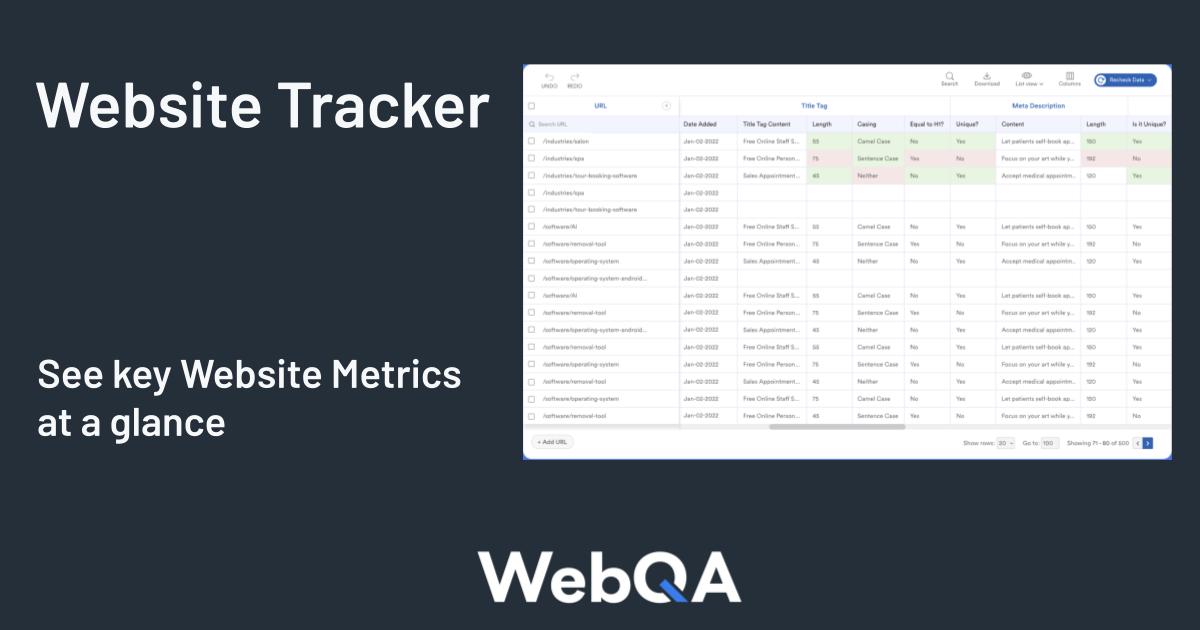
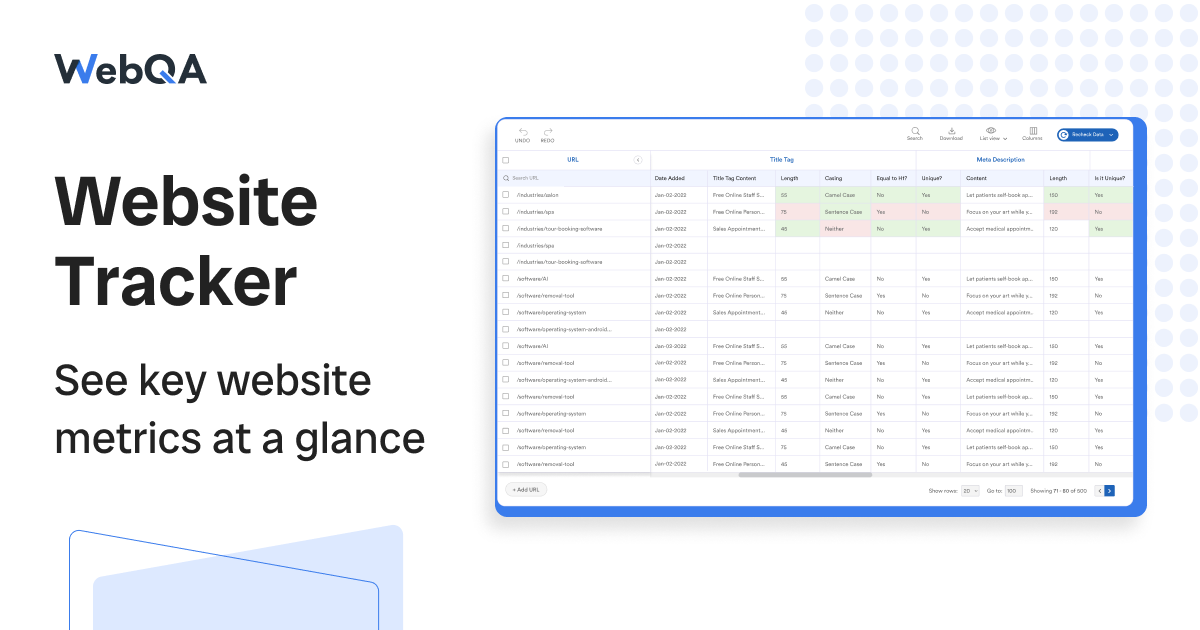
Modified OG images for few pages

diff --git a/resources/views/bulk-tools/posts/meta-desc.blade.php b/resources/views/bulk-tools/posts/meta-desc.blade.php
@@ -4,8 +4,9 @@
 @section('og-title', 'Test Meta Descriptions with Custom Rules | Webqa')
 @section('og-description', 'Audit meta descriptions against your standards—set length limits and rules, see decisive Pass/Fail outcomes, and export results to share and act quickly.')
 @section('og-url', 'https://webqa.co/tool/meta-description')
-@section('og-image', 'https://webqa.co/new-assets/assets/images/meta-tags/open-graph-image.png')
+@section('og-image', 'https://webqa.co/new-assets/assets/images/og/tools-meta-description.png')
 @section('og-image-alt', 'Meta description test')
+
 
 <div class="single-post-content-main bulk-tool-test">
   <div class="single-post-content">

diff --git a/resources/views/bulk-tools/posts/meta-title.blade.php b/resources/views/bulk-tools/posts/meta-title.blade.php
@@ -4,9 +4,8 @@
 @section('og-title', 'Test Meta Titles with Custom Rules | Webqa')
 @section('og-description', 'Audit meta titles with your standards—length, casing, and H1 difference. See decisive Pass/Fail outcomes and export results for quick fixes.')
 @section('og-url', 'https://webqa.co/tool/meta-title')
-@section('og-image', 'https://webqa.co/new-assets/assets/images/meta-tags/open-graph-image.png')
+@section('og-image', 'https://webqa.co/new-assets/assets/images/og/tools-meta-title.png')
 @section('og-image-alt', 'Meta title test')
-
 
 <div class="single-post-content-main bulk-tool-test">
   <div class="single-post-content">

diff --git a/resources/views/bulk-tools/posts/robots-meta.blade.php b/resources/views/bulk-tools/posts/robots-meta.blade.php
@@ -4,7 +4,7 @@
 @section('og-title', 'Test Robots Meta Tags & Directives | Webqa')
 @section('og-description', 'Audit robots meta directives—index/follow, noindex, nofollow, noarchive, nosnippet, and more. See decisive outcomes and export results for quick fixes.')
 @section('og-url', 'https://webqa.co/tool/robots-meta')
-@section('og-image', 'https://webqa.co/new-assets/assets/images/meta-tags/open-graph-image.png')
+@section('og-image', 'https://webqa.co/new-assets/assets/images/og/tools-robots-meta.png')
 @section('og-image-alt', 'Robots meta test')
 
 <div class="single-post-content-main bulk-tool-test">

diff --git a/resources/views/feature-childpage-audtest.blade.php b/resources/views/feature-childpage-audtest.blade.php
@@ -6,7 +6,7 @@
 @section('og-title', 'Custom Webpage Audits with Shareable Results | Webqa')
 @section('og-description', 'Define acceptance criteria, test any page, and see decisive Pass/Fail outcomes. Each analysis includes a shareable URL and exports to PDF/CSV/XLSX.')
 @section('og-url', 'https://webqa.co/features/webpage-audit')
-@section('og-image', 'https://webqa.co/new-assets/assets/images/meta-tags/open-graph-image.png')
+@section('og-image', 'https://webqa.co/new-assets/assets/images/og/features-webpage-audit.png')
 @section('og-image-alt', 'Webpage audit')
 
 @section("content")

diff --git a/resources/views/feature-childpage-settings.blade.php b/resources/views/feature-childpage-settings.blade.php
@@ -6,7 +6,7 @@
 @section('og-title', 'Settings: Define Project-Wide Audit Rules | Webqa')
 @section('og-description', 'Configure the criteria that power your checks. Choose only the parameters you need and ensure consistent, standards-based results across audits and bulk tools.')
 @section('og-url', 'https://webqa.co/features/settings')
-@section('og-image', 'https://webqa.co/new-assets/assets/images/meta-tags/open-graph-image.png')
+@section('og-image', 'https://webqa.co/new-assets/assets/images/og/features-settings.png')
 @section('og-image-alt', 'Settings')
 
 @section("content")

diff --git a/resources/views/feature-childpage-reports.blade.php b/resources/views/feature-childpage-reports.blade.php
@@ -6,7 +6,7 @@
 @section('og-title', 'Share Actionable Audit Findings with Website Reports | Webqa')
 @section('og-description', 'Website Reports turns audit data into clear tables—titles, speed, canonicals, and more. Jump in from widgets and export PDF/CSV/XLSX for streamlined hand-offs.')
 @section('og-url', 'https://webqa.co/features/reports')
-@section('og-image', 'https://webqa.co/new-assets/assets/images/meta-tags/open-graph-image.png')
+@section('og-image', 'https://webqa.co/new-assets/assets/images/og/features-reports.png')
 @section('og-image-alt', 'Website reports')
 
 

diff --git a/resources/views/index.blade.php b/resources/views/index.blade.php
@@ -5,7 +5,7 @@
 @section('og-title', 'Customize Website Audits and Act Faster | Webqa')
 @section('og-description', 'Set your criteria, test any page, and see decisive results. Use Website Tracker, Reports, and bulk tools to prioritize fixes and keep every page release-ready.')
 @section('og-url', 'https://webqa.co/')
-@section('og-image', 'https://webqa.co/new-assets/assets/images/meta-tags/open-graph-image.png')
+@section('og-image', 'https://webqa.co/new-assets/assets/images/og/home.png')
 @section('og-image-alt', 'Webqa')
 @section("content")
 

diff --git a/resources/views/aboutus.blade.php b/resources/views/aboutus.blade.php
@@ -6,7 +6,7 @@
 @section('og-title', 'About Webqa — Smarter Website Auditing')
 @section('og-description', 'Discover how Webqa turns audits into action with your standards, clear results, shareable analyses, and site-wide tracking to prioritize fixes.')
 @section('og-url', 'https://webqa.co/aboutus')
-@section('og-image', 'https://webqa.co/new-assets/assets/images/meta-tags/open-graph-image.png')
+@section('og-image', 'https://webqa.co/new-assets/assets/images/og/home.png')
 @section('og-image-alt', 'About Webqa')
 
 @section("content")

diff --git a/resources/views/404.blade.php b/resources/views/404.blade.php
@@ -2,7 +2,12 @@
 
 @section('title', 'Page not found | Webqa')
 @section('meta-description', 'The page that you are looking for does not exist.')
+@section('og-title', 'Page not found | Webqa')
+@section('og-description', 'The page that you are looking for does not exist.')
+@section('og-image', 'https://webqa.co/new-assets/assets/images/og/home.png')
+@section('og-url', 'https://webqa.co/')
 @section("content")
+
 
     <!-- Section 1 starts -->
      <section class="ep1 container">
